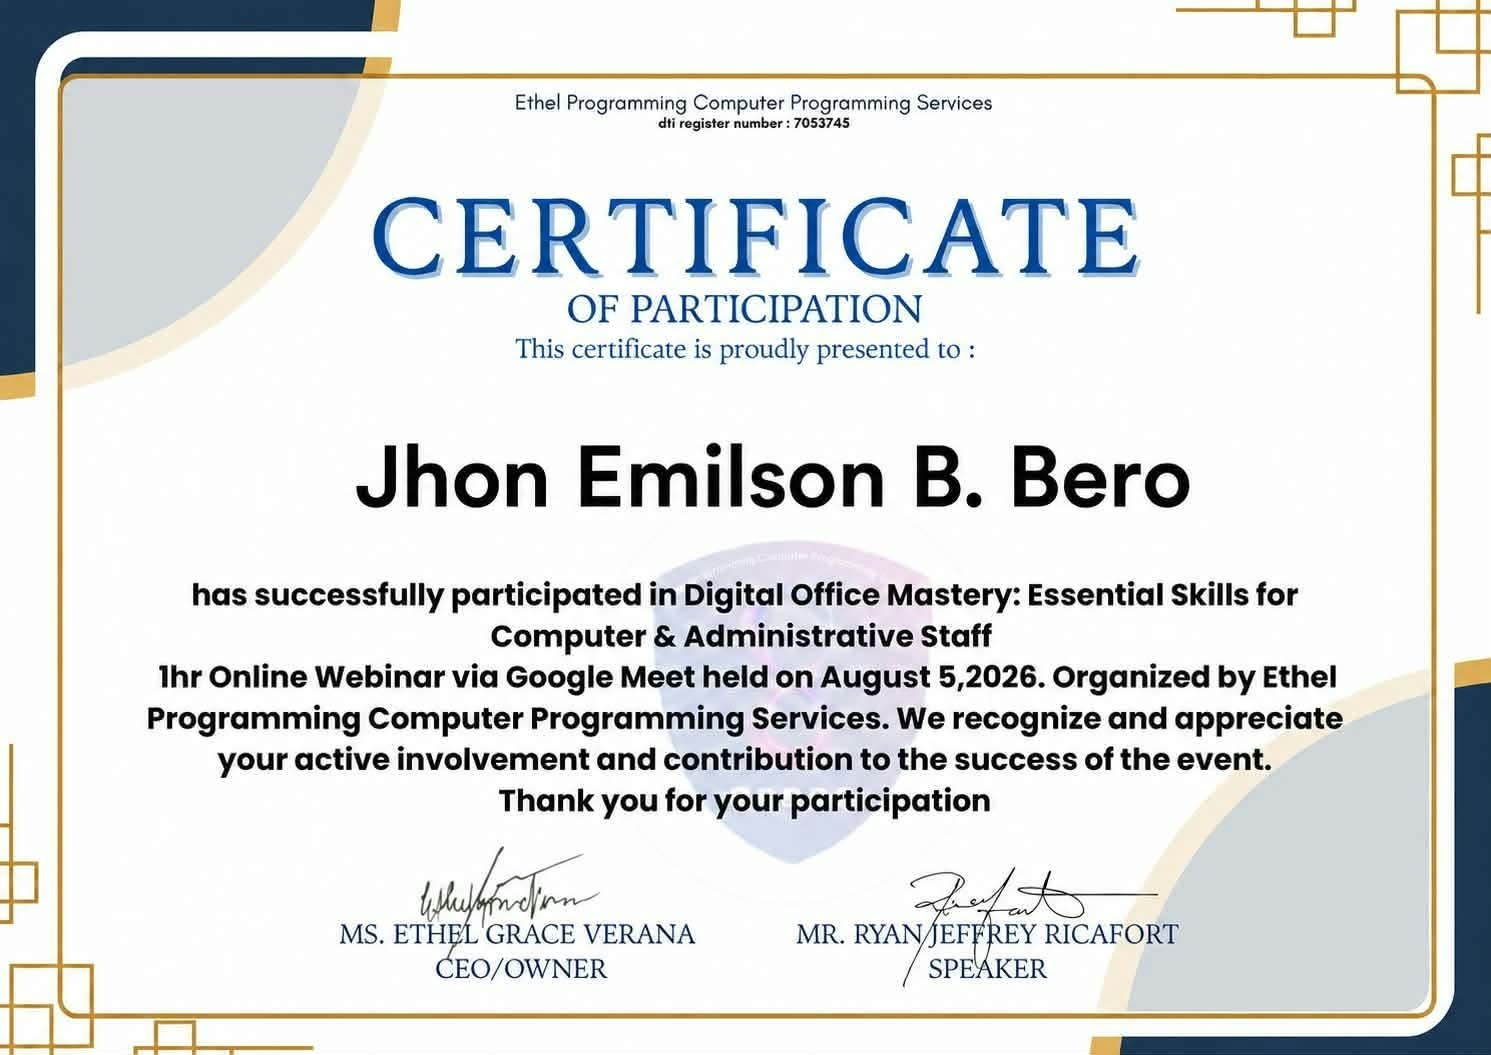
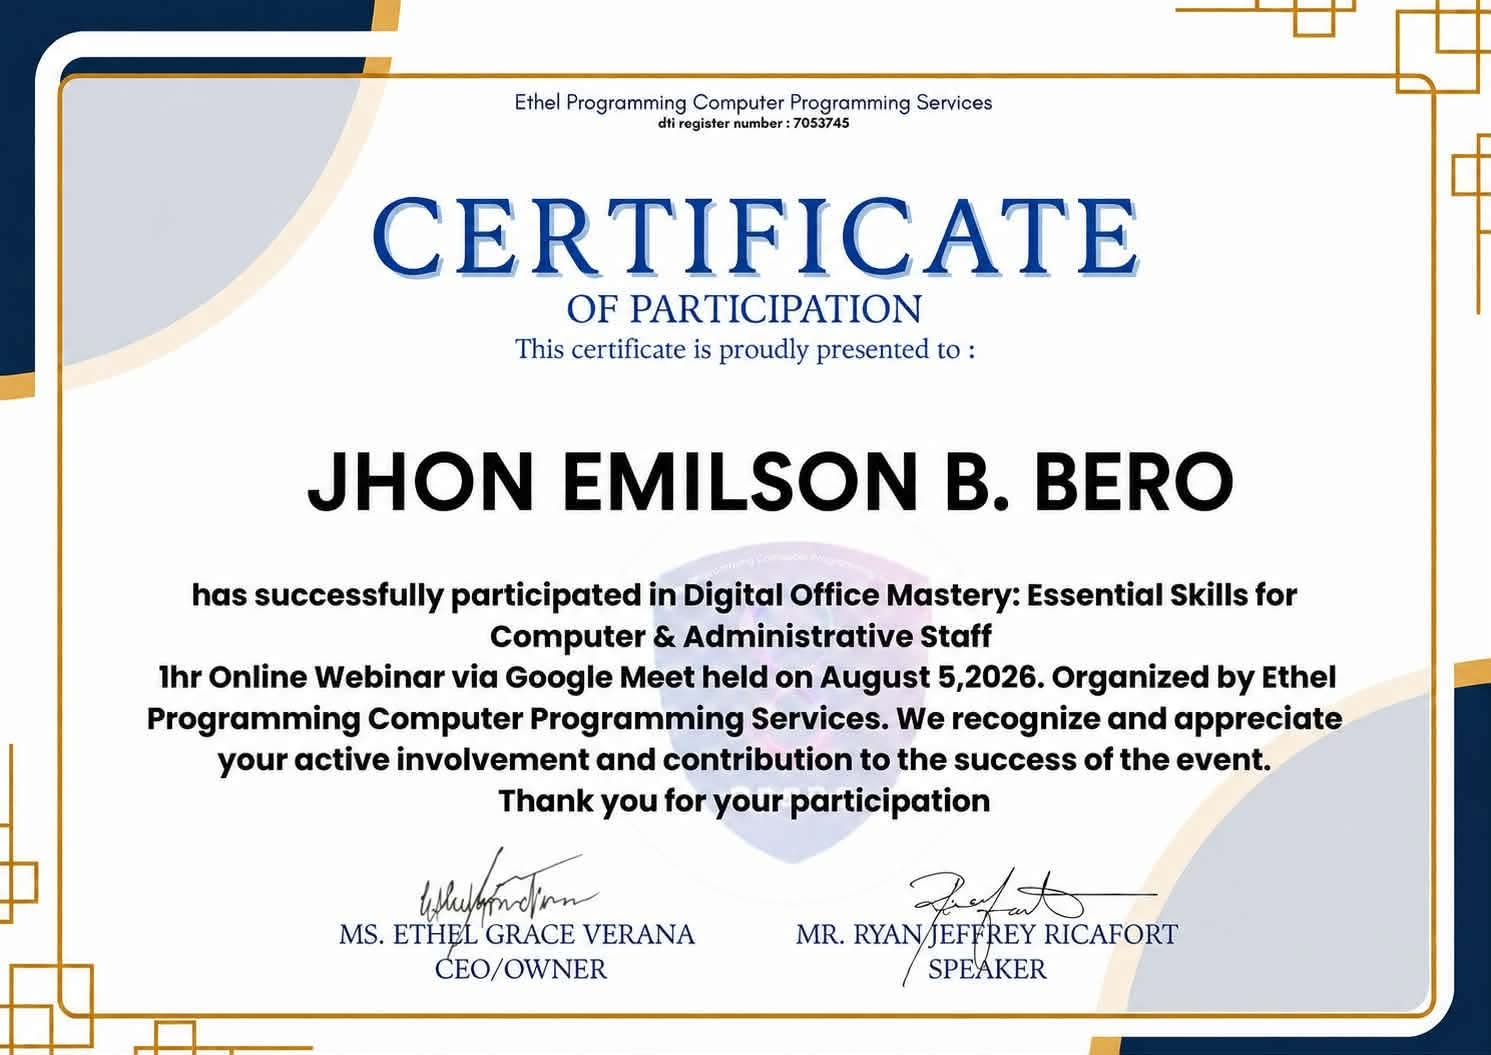
Add files via upload

diff --git a/index.html b/index.html
@@ -4,7 +4,7 @@
   <meta charset="utf-8">
   <meta name="viewport" content="width=device-width,initial-scale=1">
   <meta name="description" content="Jhon Emilson's BSIT professional portfolio">
-  <title>Jhon Emilson | BSIT Portfolio</title>
+  <title>Scarface | BSIT Portfolio</title>
 
   <link rel="preconnect" href="https://fonts.googleapis.com">
   <link href="https://fonts.googleapis.com/css2?family=DM+Mono:wght@400;500&family=Manrope:wght@400;500;600;700;800&display=swap" rel="stylesheet">
@@ -449,7 +449,14 @@
     }
 
     .art-data { background: #49341f; }
-    .art-ai { background: #173c70; }
+    .art-dcsa {
+      background: url("assets/dcsa-wiki.png") center/cover no-repeat;
+    }
+    .art-ai {
+      background:
+        linear-gradient(rgba(8, 18, 34, 0.38), rgba(8, 18, 34, 0.62)),
+        url("assets/taskflow-background.jpg") center/cover no-repeat;
+    }
     .art-peak {
       background: url("assets/peakco-project.png") center/cover no-repeat;
     }
@@ -950,7 +957,7 @@
         <div class="hero-aside">
           <aside class="profile-card" aria-label="Profile photo">
             <div class="profile-photo" id="profile-photo-preview">
-              <img src="assets/profile-picture.png" alt="Jhon Emilson profile picture">
+              <img src="assets/profile-picture.jpg" alt="Jhon Emilson profile picture">
             </div>
           </aside>
           <aside class="hero-note">
@@ -971,13 +978,13 @@
 
         <div class="about-grid">
           <div class="about-copy">
-            <p data-fill="aboutOne">I am a Bachelor of Science in Information Technology graduate building a career around useful, dependable technology. My studies gave me a broad view of the discipline: programming, databases, systems analysis, networking, cybersecurity, and the teamwork that brings them together.</p>
+            <p data-fill="aboutOne">I am a Bachelor of Science in Information Technology Student building a career around useful, dependable technology. My studies gave me a broad view of the discipline: programming, databases, systems analysis, networking, cybersecurity, and the teamwork that brings them together.</p>
             <p data-fill="aboutTwo">I enjoy moving between those layers, asking how a feature should work for a person and what makes a system reliable under real conditions. I care about clarity, structure, and evidence, because good technology should be understandable, efficient, and safe to use.</p>
           </div>
 
           <div class="stats" aria-label="Quick statistics">
             <div class="stat">
-              <span class="stat-value" data-count="4">0</span>
+              <span class="stat-value" data-count="3">0</span>
               <span class="stat-label">Key projects</span>
             </div>
             <div class="stat">
@@ -1063,14 +1070,14 @@
 
         <div class="project-grid">
           <article class="project-card">
-            <div class="project-art art-data">
-              <span class="art-code">DATA / DASHBOARD</span>
+            <div class="project-art art-dcsa">
+              <span class="art-code">HTML / WEBSITE</span>
             </div>
-            <div class="project-meta"><span>Database</span><span>2025</span></div>
-            <h3>Inventory dashboard</h3>
-            <p>Designed a clean reporting view for product, stock, and order data, focusing on useful summaries and easy navigation.</p>
+            <div class="project-meta"><span>Website</span><span>2026</span></div>
+            <h3>DCSA Wiki</h3>
+            <p>The institution’s development, as outlined in this profile, spans vocational computer training, college-level programs, and the later establishment of Saint Adeline branches.</p>
             <div class="project-actions">
-              <a href="#" class="text-link">Case study <i class="bi bi-arrow-up-right"></i></a>
+              <a href="https://emilsonbero-jpg.github.io/DCSA-wiki" target="_blank" class="text-link">Website link <i class="bi bi-arrow-up-right"></i></a>
             </div>
           </article>
 
@@ -1079,10 +1086,10 @@
               <span class="art-code">AI / HELPER</span>
             </div>
             <div class="project-meta"><span>Workflow</span><span>2025</span></div>
-            <h3>Research assistant</h3>
+            <h3>Taskfl0w</h3>
             <p>Built a prompt-driven workflow that organizes notes, summarizes findings, and keeps evidence visible rather than buried in output.</p>
             <div class="project-actions">
-              <a href="#" class="text-link">View notes <i class="bi bi-arrow-up-right"></i></a>
+              <a href="https://taskfl0w.page.gd/" target="_blank" class="text-link">View Website <i class="bi bi-arrow-up-right"></i></a>
             </div>
           </article>
 
@@ -1094,7 +1101,7 @@
             <h3>Peak.co</h3>
             <p>Premium headwear forged in the streets, inspired by 90s hiphop. Built for creators, DJs, and dancers who refuse to settle.</p>
             <div class="project-actions">
-              <a href="https://jowd777.github.io/PeakCo/" class="text-link">Project link <i class="bi bi-arrow-up-right"></i></a>
+              <a href="https://jowd777.github.io/PeakCo/" target="_blank" class="text-link">Project link <i class="bi bi-arrow-up-right"></i></a>
             </div>
           </article>
         </div>
@@ -1311,17 +1318,12 @@ db.execute(query, [email, passwordHash]);</code></pre>
               <div class="timeline-item">
                 <span class="mono">Education</span>
                 <h3>BS Information Technology</h3>
-                <p>Your College / University · 2022–2026<br>Systems analysis, databases, software development, networking, information assurance.</p>
-              </div>
-              <div class="timeline-item">
-                <span class="mono">Experience</span>
-                <h3>IT Support Intern / Project Contributor</h3>
-                <p>Your Organization · 2025–2026<br>Replace with verified duties and measurable contributions.</p>
+                <p>Datamex College · 2023–2027<br>Databases, software development, networking, information assurance.</p>
               </div>
               <div class="timeline-item">
                 <span class="mono">Certifications</span>
                 <h3>IT &amp; Cloud Foundations</h3>
-                <p>Add verified credential, issuer, and date only.</p>
+                <p>Upskill Tech</p>
               </div>
             </div>
 
@@ -1330,11 +1332,11 @@ db.execute(query, [email, passwordHash]);</code></pre>
 
           <div class="career-plan" data-reveal>
             <h3>Career development plan</h3>
-            <div class="goal"><span class="mono">Target</span><p>Junior Full-Stack Developer or Application Support Engineer; build secure, maintainable software.</p></div>
+            <div class="goal"><span class="mono">Target</span><p>Junior Developer or IT Tech Support; build secure, maintainable software.</p></div>
             <div class="goal"><span class="mono">6 months</span><p>Ship two polished projects, practice interviews weekly, earn a cloud or security fundamentals credential.</p></div>
             <div class="goal"><span class="mono">1 year</span><p>Contribute to production code; strengthen testing, deployment, and code review habits.</p></div>
             <div class="goal"><span class="mono">3 years</span><p>Own a feature from discovery to monitoring; deepen expertise and help teammates through documentation.</p></div>
-            <div class="goal"><span class="mono">Prep</span><p>Practice project walkthroughs, STAR examples, debugging explanations, and trade-off discussions.</p></div>
+            <div class="goal"><span class="mono">Prep</span><p>Practice project walkthroughs, STAR examples, and trade-off discussions.</p></div>
           </div>
         </div>
       </div>
@@ -1426,7 +1428,7 @@ db.execute(query, [email, passwordHash]);</code></pre>
     
       heroCopy: 'I build practical digital experiences that are useful, secure, and easy to trust.',
       snapshot: 'Studying information technology with a focus on secure systems, user experience, and dependable problem solving.',
-      aboutOne: 'I am a Bachelor of Science in Information Technology graduate building a career around useful, dependable technology. My studies gave me a broad view of the discipline: programming, databases, systems analysis, networking, cybersecurity, and the teamwork that brings them together.',
+      aboutOne: 'I am a Bachelor of Science in Information Technology student building a career around useful, dependable technology. My studies gave me a broad view of the discipline: programming, databases, networking, and the teamwork that brings them together.',
       aboutTwo: 'I enjoy moving between those layers, asking how a feature should work for a person and what makes a system reliable under real conditions. I care about clarity, structure, and evidence, because good technology should be understandable, efficient, and safe to use.',
       email: 'hello@example.com',
       location: 'Location, Country'

diff --git a/read.md b/read.md
@@ -1,0 +1,65 @@
+# Read
+
+## Jhon Emilson | BSIT Portfolio
+
+This project is a single-page portfolio website for Jhon Emilson, built as a modern personal landing page for a Bachelor of Science in Information Technology profile.
+
+## Overview
+
+The site is designed to present:
+
+- a professional introduction and personal brand
+- technical skills across development, systems, and security
+- selected project highlights
+- a decision-making and AI usage narrative
+- education and career readiness summary
+- contact information for networking or inquiries
+
+## Project type
+
+- Static website
+- HTML + CSS + JavaScript
+- Bootstrap-based layout and icons
+- Responsive design for desktop and mobile viewing
+
+## Main file
+
+- `index.html` — contains the full page structure, styling, content, and interactive logic
+
+## How to view locally
+
+Open `index.html` directly in a browser, or run a small local server from this folder:
+
+```bash
+python -m http.server 8000
+```
+
+Then visit:
+
+```text
+http://localhost:8000/
+```
+
+## Content highlights
+
+The portfolio includes sections for:
+
+- Hero / introduction
+- About me
+- Skills and strengths
+- Projects
+- Case studies / problem solving
+- Security practices
+- AI with evidence
+- Career readiness
+- Reflection
+- Contact form and details
+
+## Contact details included in the site
+
+- Email: emilsonbero@gmail.com
+- Location: Metro Manila, Philippines
+
+## Notes
+
+This is a personal portfolio and can be customized by editing the content inside `index.html`. If you want to update your name, contact info, projects, or biography, adjust the relevant text and configuration blocks in the page source.
